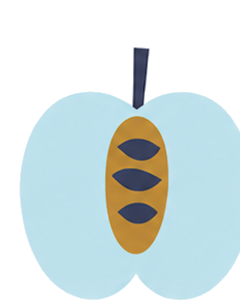
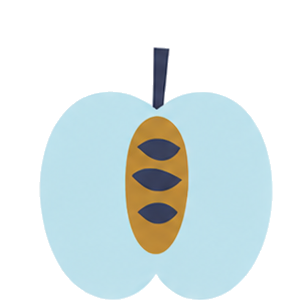
fix: 補回apple09右邊被裁到的部分；圖示背後加白色底片，確保在任何按鈕/卡片顏色上都看得清楚(一次解決對比度問題，不用再逐一換色)

diff --git a/index.html b/index.html
@@ -43,7 +43,7 @@ body{font-family:'PingFang TC','Helvetica Neue',sans-serif;background:#FAF6EE;co
 .sec-title{font-size:15px;font-weight:600;color:#1a1a1a;margin-bottom:14px;display:flex;align-items:center;gap:6px;letter-spacing:.04em}
 .sec-title .icon{font-size:17px}
 .icon{font-size:0 !important;display:inline-block;vertical-align:middle}
-.icon::before{content:'';display:inline-block;width:32px;height:32px;background:var(--icon-img,url('apple-icon.png')) center/contain no-repeat;vertical-align:middle}
+.icon::before{content:'';display:inline-block;width:32px;height:32px;border-radius:8px;background-color:rgba(255,255,255,.72);background-image:var(--icon-img,url('apple-icon.png'));background-position:center;background-size:78%;background-repeat:no-repeat;vertical-align:middle}
 
 .field-row{display:grid;grid-template-columns:1fr 1fr;gap:12px;margin-bottom:12px}
 .field-row.tri{grid-template-columns:1fr 1fr 1fr}

diff --git a/report.html b/report.html
@@ -19,7 +19,7 @@ body{font-family:'PingFang TC','Helvetica Neue',sans-serif;background:#FAF6EE;co
 .sec-title{font-size:15px;font-weight:600;color:#1a1a1a;margin-bottom:14px;display:flex;align-items:center;gap:6px;letter-spacing:.04em}
 .sec-title .icon{font-size:17px}
 .icon{font-size:0 !important;display:inline-block;vertical-align:middle}
-.icon::before{content:'';display:inline-block;width:32px;height:32px;background:var(--icon-img,url('apple-icon.png')) center/contain no-repeat;vertical-align:middle}
+.icon::before{content:'';display:inline-block;width:32px;height:32px;border-radius:8px;background-color:rgba(255,255,255,.72);background-image:var(--icon-img,url('apple-icon.png'));background-position:center;background-size:78%;background-repeat:no-repeat;vertical-align:middle}
 
 .field-row{display:grid;grid-template-columns:1fr 1fr;gap:12px;margin-bottom:12px}
 .field-row.tri{grid-template-columns:1fr 1fr 1fr}
